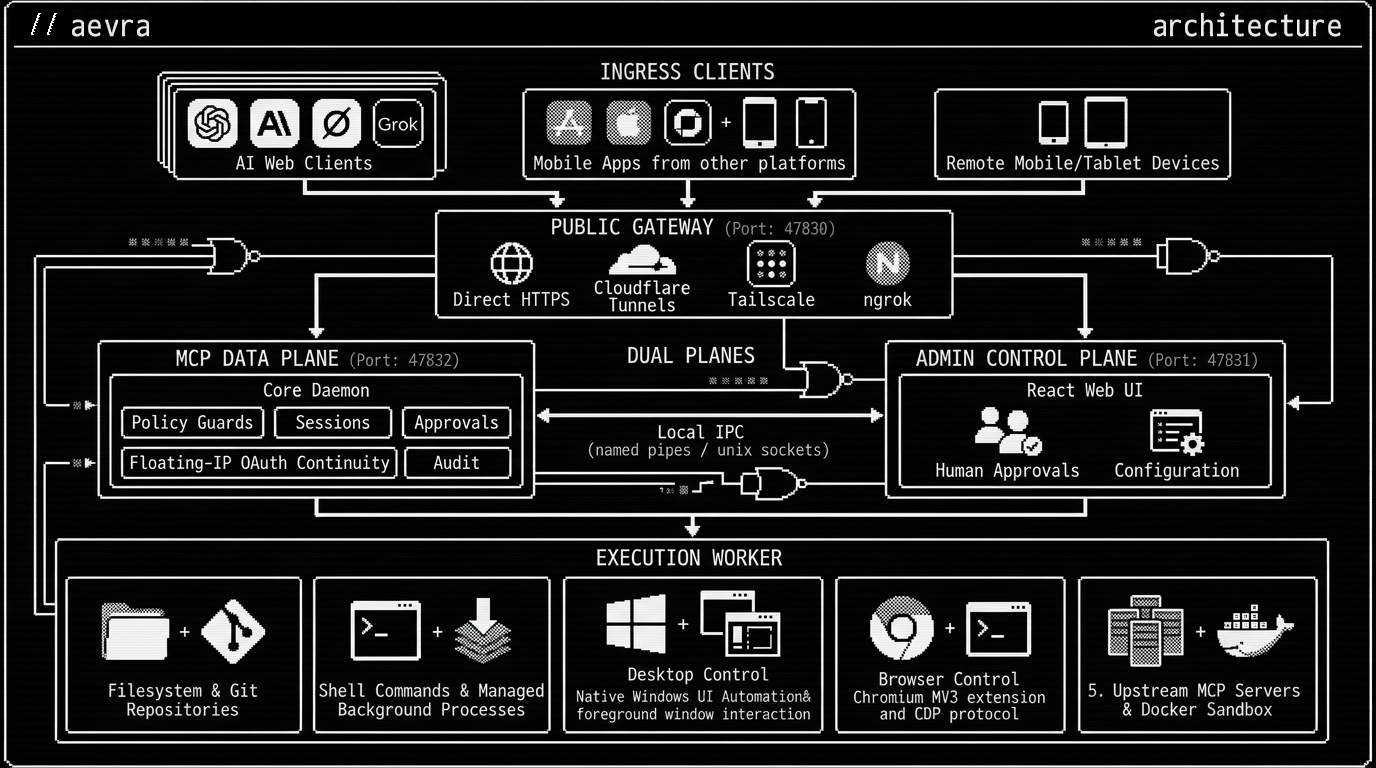
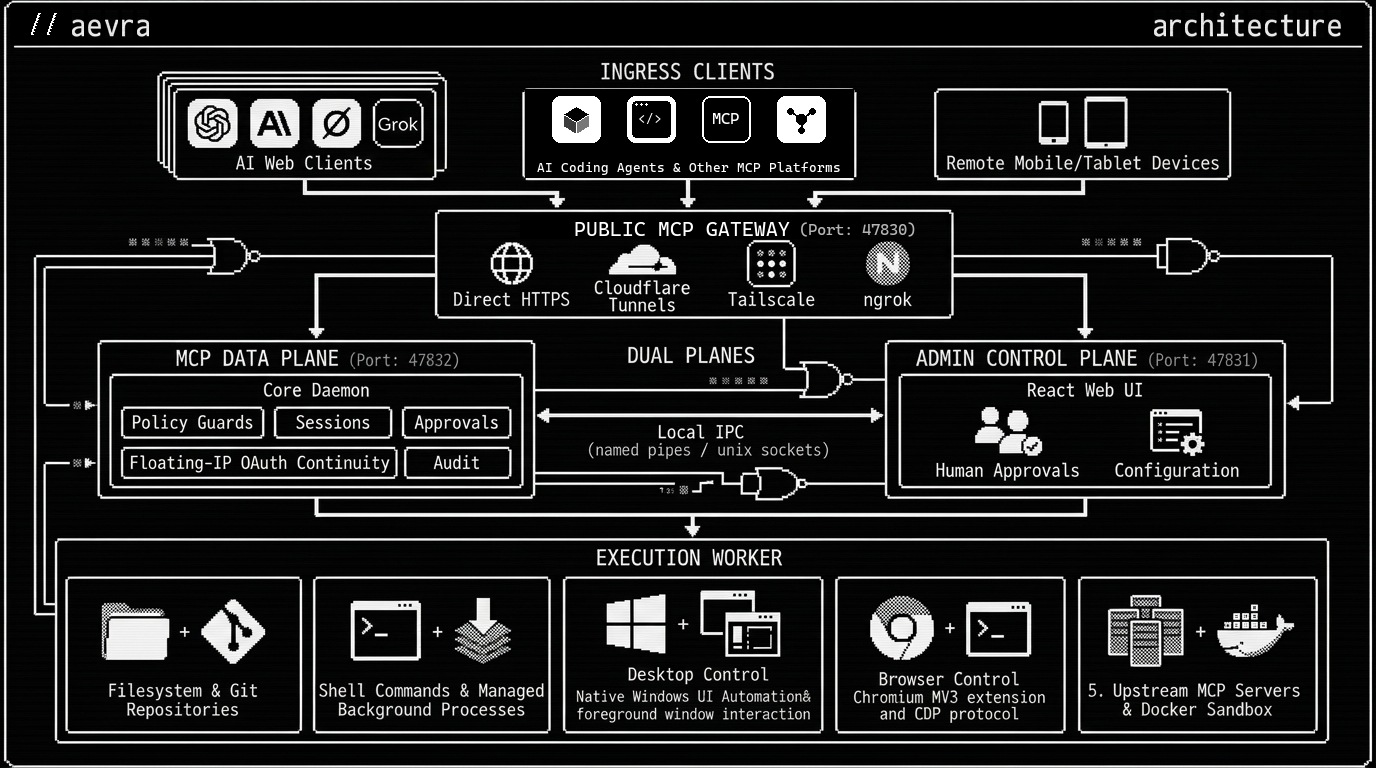
docs: sync MCP upstream table, pagination, and about formatting to specs and changelog

Changed region(s): [[0.375, 0.125, 0.625, 0.25], [0.4062, 0.2812, 0.6562, 0.3125]]

diff --git a/README.md b/README.md
@@ -14,16 +14,19 @@
 [![Claude](https://img.shields.io/badge/Claude-%E2%9C%93-ffffff?style=flat-square&labelColor=000000&logo=anthropic&logoColor=ffffff)](https://claude.ai)
 [![Grok](https://img.shields.io/badge/Grok-%E2%9C%93-ffffff?style=flat-square&labelColor=000000&logo=x&logoColor=ffffff)](https://grok.com)
 [![Gemini](https://img.shields.io/badge/Gemini-%E2%9C%93-ffffff?style=flat-square&labelColor=000000&logo=googlegemini&logoColor=ffffff)](https://gemini.google.com)
+[![Cursor](https://img.shields.io/badge/Cursor-%E2%9C%93-ffffff?style=flat-square&labelColor=000000)](https://cursor.com)
+[![Coding Agents](https://img.shields.io/badge/Coding%20Agents-%E2%9C%93-ffffff?style=flat-square&labelColor=000000)](https://github.com/the-long-ride/aevra)
+[![MCP Gateway](https://img.shields.io/badge/MCP%20Gateway-%E2%9C%93-ffffff?style=flat-square&labelColor=000000)](https://modelcontextprotocol.io/)
[2 lines of base64/hex data omitted]
 
 </div>
 
-**aevra** lets AI assistants such as ChatGPT, Claude, and Grok work directly on your machine: edit files, run commands, manage Git repositories, automate desktop software, and drive browsers under explicit security boundaries.
+**aevra** is a local **MCP execution gateway** that lets AI assistants (such as ChatGPT, Claude, and Grok), any AI platform with an MCP connector, and all AI coding agents (such as Cursor, Windsurf, Claude Code, Cline, Roo Code, and Copilot) work directly on your machine: edit files, run commands, manage Git repositories, automate desktop software, drive browsers, and bridge upstream MCP servers under explicit security boundaries.
 
-When an AI assistant requests an action, aevra checks the request against your configured capability profile, prompts for human approval on sensitive operations, and records each action to an audit log.
+As a unified MCP gateway, aevra acts as both a secure execution host and an upstream proxy aggregator. It serves 60+ built-in system tools while republishing external downstream MCP servers under collision-resistant namespaces (`server__tool`). When an AI client requests an action, aevra validates the request against your configured capability profile, enforces fine-grained path and command policies, prompts for human approval on sensitive operations, and records each action to a tamper-evident audit log.
 
-It supports any client using the [Model Context Protocol (MCP)](https://modelcontextprotocol.io/) standard, runs on Windows, macOS, and Linux, and connects over local networks, public tunnels, or private VPNs.
+It supports any client or platform using the [Model Context Protocol (MCP)](https://modelcontextprotocol.io/) standard, runs on Windows, macOS, and Linux, and connects over local loopback, private networks, or public tunnels with floating-IP session continuity.
 
 <p align="center">
   <img src="https://raw.githubusercontent.com/the-long-ride/aevra/main/assets/aevra-architecture.png" alt="aevra architecture diagram" width="100%" />
@@ -33,18 +36,18 @@ It supports any client using the [Model Context Protocol (MCP)](https://modelcon
 <summary><strong>Architecture diagram details (text format)</strong></summary>
 
 ```text
-Clients:
-  - AI Web Clients (ChatGPT, Claude, Grok)
-  - Mobile Apps (ChatGPT, Claude, Grok mobile apps)
+Ingress Clients:
+  - AI Web Clients & Assistants (ChatGPT, Claude, Grok, Gemini, Langdock, Manus)
+  - AI Coding Agents & Other MCP Platforms (Cursor, Windsurf, Claude Code, Cline, Roo Code, any MCP connector)
   - Remote Supervisor Devices (Phones, tablets, secondary browsers accessing Admin Web UI)
                             │
-Public Gateway (Port 47830 - Direct HTTPS / Cloudflare / Tailscale / ngrok / SSH)
+Public MCP Gateway (Port 47830 - Direct HTTPS / Cloudflare / Tailscale / ngrok / SSH)
                             │
   ┌─────────────────────────┴─────────────────────────┐
   │                                                   │
 MCP Data Plane (Port 47832)               Admin Control Plane (Port 47831)
 aevra Core Daemon                         React Web UI
-(policy · sessions · floating-IP continuity) (approvals · live activity · settings)
+(policy · sessions · floating-IP continuity) (approvals · live activity · settings · MCP upstreams)
   │
 Local IPC (named pipe / unix socket)
   │
@@ -64,6 +67,7 @@ Execution Worker
 
 ## What makes aevra different?
 
+- **Unified MCP execution and aggregation gateway:** Functions as an all-in-one MCP hub for AI web assistants, platforms with MCP connectors, and AI coding agents (Cursor, Windsurf, Claude Code, Cline, etc.). It executes 60+ native host tools under strict workspace isolation while dynamically proxying, cataloging, and namespacing upstream MCP servers (`stdio`, `http`, `sse`).
 - **Batch operations with bounded concurrency:** First-class `file_read_many`, `file_write_many`, and `command_run_many` tools reduce model round trips, paired with parallel regex search (`search`).
 - **Silent background desktop automation:** Interact with native Windows applications through UI Automation pattern tools without moving the mouse cursor, changing clipboard contents, or stealing keyboard focus. See the [desktop control guide](https://github.com/the-long-ride/aevra/blob/main/docs/user-manual/19-desktop-control.md).
 - **Secure browser automation:** Drive Chromium browsers through the Aevra MV3 extension or Chrome DevTools Protocol (CDP) under strict DLP, risk, and approval controls, with automatic refusal on password, OTP, or payment fields. See the [browser control guide](https://github.com/the-long-ride/aevra/blob/main/docs/user-manual/18-browser-control.md).

diff --git a/CHANGELOG.md b/CHANGELOG.md
@@ -61,11 +61,12 @@
   - Successful Admin logins no longer consume failed-login rate-limit capacity. Rejected login bursts still return `429` with retry timing.
   - CLI Admin failures now distinguish authentication/rate-limit failures from transport failures instead of always suggesting the Core is stopped.
   - Windows `aevra service start` and `restart` now preflight service installation and direct the operator to `aevra service install` when the Scheduled Task is absent.
-  - Added CLI coverage for durable OAuth connections (`aevra connections list|revoke`), live session maintenance (`aevra sessions list|revoke|revoke-others`), upstream MCP management, audit clearing, and `aevra about` metadata output.
+  - Added CLI coverage for durable OAuth connections (`aevra connections list|revoke`), live session maintenance (`aevra sessions list|revoke|revoke-others`), upstream MCP management with aligned table output (`aevra mcp list`), audit clearing, and `aevra about` metadata output formatted as an aligned table with an updated capabilities description and no note line.
 
 - **Admin API & Web UI Enhancements**:
   - Reworked data-table controls so search, filters, row count, and toolbar pagination form a compact responsive control strip; Live MCP activity now keeps pagination with its filters, and mobile health chips align to the right.
-  - Removed the redundant standalone `Note` row from About while retaining the author annotation.
+  - Replaced the static MCP upstream list in Settings (`McpUpstreamsSettings`) with a full-featured paginated `DataTable` supporting search, status/transport/risk filters, configurable page size (5 to 100), and integrated server actions.
+  - Corrected author note from `make by <3` to `made by <3` across `@aevra/admin-contracts` and the Web UI About page, while removing the redundant standalone Note row.
   - Fixed the dashboard request-activity chart to render every integer request-count level on the same Y transform as the activity line, and start authenticated realtime activity streaming immediately after Web UI login without requiring a page refresh.
   - Added authenticated `POST /api/policy/commands/explain` endpoint for non-executing preview and policy explanation.
   - Added `CommandExplanation` UI component in `RequestApprovalModal` showing visual breakdown of application, operation, shell dialect, effective CWD, outside targets, and reason codes.

diff --git a/docs/user-manual/20-mcp-upstreams.md b/docs/user-manual/20-mcp-upstreams.md
@@ -22,6 +22,22 @@ aevra mcp remove u1
 
 Registration connects once and fetches the catalog. If the handshake fails, nothing is stored.
 
+## Listing and pagination
+
+In the Web UI (**Settings → MCP servers**), registered servers are presented in a searchable, filterable, and paginated data table. Operators can configure page size (5, 10, 25, 50, or 100 rows per page), search server names/configurations, and filter by status (`Active`, `Degraded`, `Needs review`), transport (`stdio`, `http`, `sse`), and risk tier (`LOW`, `MEDIUM`, `HIGH`, `CRITICAL`).
+
+In the CLI, `aevra mcp list` formats registered upstream servers in an aligned box-drawing table displaying server ID, Name, Transport, State, Tool Count, and Risk Tier:
+
+```text
+┌─────────────────────────────────────────┬────────┬───────────┬────────┬─────────┬────────┐
+│ ID                                      │ Name   │ Transport │ State  │ Tools   │ Risk   │
+├─────────────────────────────────────────┼────────┼───────────┼────────┼─────────┼────────┤
+│ mu_e0e52809-be98-47f6-88e3-9aa7afaf1948 │ engram │ stdio     │ active │ 9 tools │ MEDIUM │
+└─────────────────────────────────────────┴────────┴───────────┴────────┴─────────┴────────┘
+```
+
+When no upstream servers are registered, `aevra mcp list` displays `No MCP servers registered.`
+
 ## Risk and advisory hints
 
 The operator-selected risk tier applies to every tool from the server and is the only source used for authorization. The server's `readOnlyHint` and `destructiveHint` annotations are shown as advisory only; they cannot lower the risk tier or bypass approval.

diff --git a/docs/specs/09-configuration.md b/docs/specs/09-configuration.md
@@ -60,13 +60,13 @@ aevra connectors list|create|revoke <id> manage static admission connector token
 aevra connections list|revoke <id>       inspect/revoke durable OAuth connections
 aevra sessions list|revoke <id>          inspect/revoke live MCP sessions
 aevra sessions revoke-others --yes       revoke other remote/admin sessions with confirmation
-aevra mcp list|add|remove|test            manage upstream MCP servers
+aevra mcp list|add|remove|test            manage upstream MCP servers (list renders aligned box table)
 aevra audit clear --yes                   clear audit rows while preserving chain checkpoint semantics
 aevra backup verify|restore <file>       verify or restore database backup
 aevra extension install [--dir <path>] [--yes]  download and unzip the browser extension for this version
 aevra service install|start|stop|restart|status  user-service lifecycle; start/restart require prior installation
 aevra completion bash|zsh|powershell     shell autocompletion
-aevra about                              display version, author, repository, and issue links
+aevra about                              display version, capabilities, and aligned metadata table
 aevra --version / aevra -v               display version
 aevra --help / aevra -h                  display help and usage
 ```

diff --git a/docs/specs/03-mcp-protocol.md b/docs/specs/03-mcp-protocol.md
@@ -107,9 +107,10 @@ Browser error codes: `BROWSER_NOT_CONNECTED` · `BROWSER_UNAVAILABLE` ·
 ### MCP upstream pattern
 
 Operators register HTTP, SSE, or stdio downstream MCP servers through the Admin
-UI or `aevra mcp`. Credentials are referenced by secret id and are resolved
-only in the Worker connection path; they never appear in catalogs, status, or
-tool results. Each server is catalogued before it is stored, and its tools,
+UI (presented as a searchable, filterable pagination table under **Settings → MCP servers**)
+or `aevra mcp` (with aligned box-table output for `aevra mcp list`). Credentials are referenced
+by secret id and are resolved only in the Worker connection path; they never appear in catalogs,
+status, or tool results. Each server is catalogued before it is stored, and its tools,
 prompts, and resources are republished under a validated namespace such as
 `github__tool`, `github__prompt`, or `mcp+github://`.
 

diff --git a/docs/user-manual/15-explore.md b/docs/user-manual/15-explore.md
@@ -12,5 +12,6 @@ After onboarding, use the navigation to explore the control plane:
 - **Audit** for security events and integrity verification.
 - **Settings** for separate MCP/Admin exposure, Keep Awake, execution, command/network policy, environment profiles, secret references, and lifecycle hooks. Creation workflows use focused modals to keep the page compact.
 - **Guide** for this manual inside the Web UI.
+- **About** for version, system capabilities, author note, and project links.
 
 Start with read-only operations in a test workspace, then increase permissions only when the workflow needs them.
